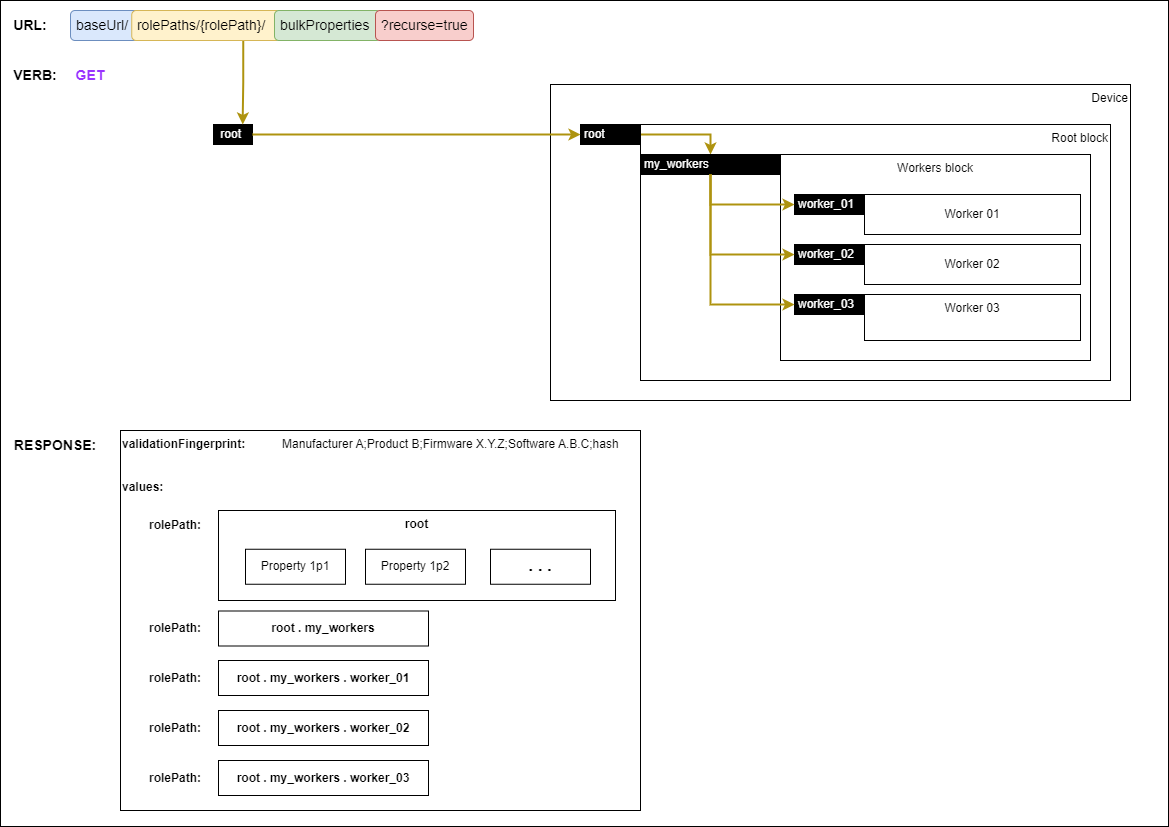
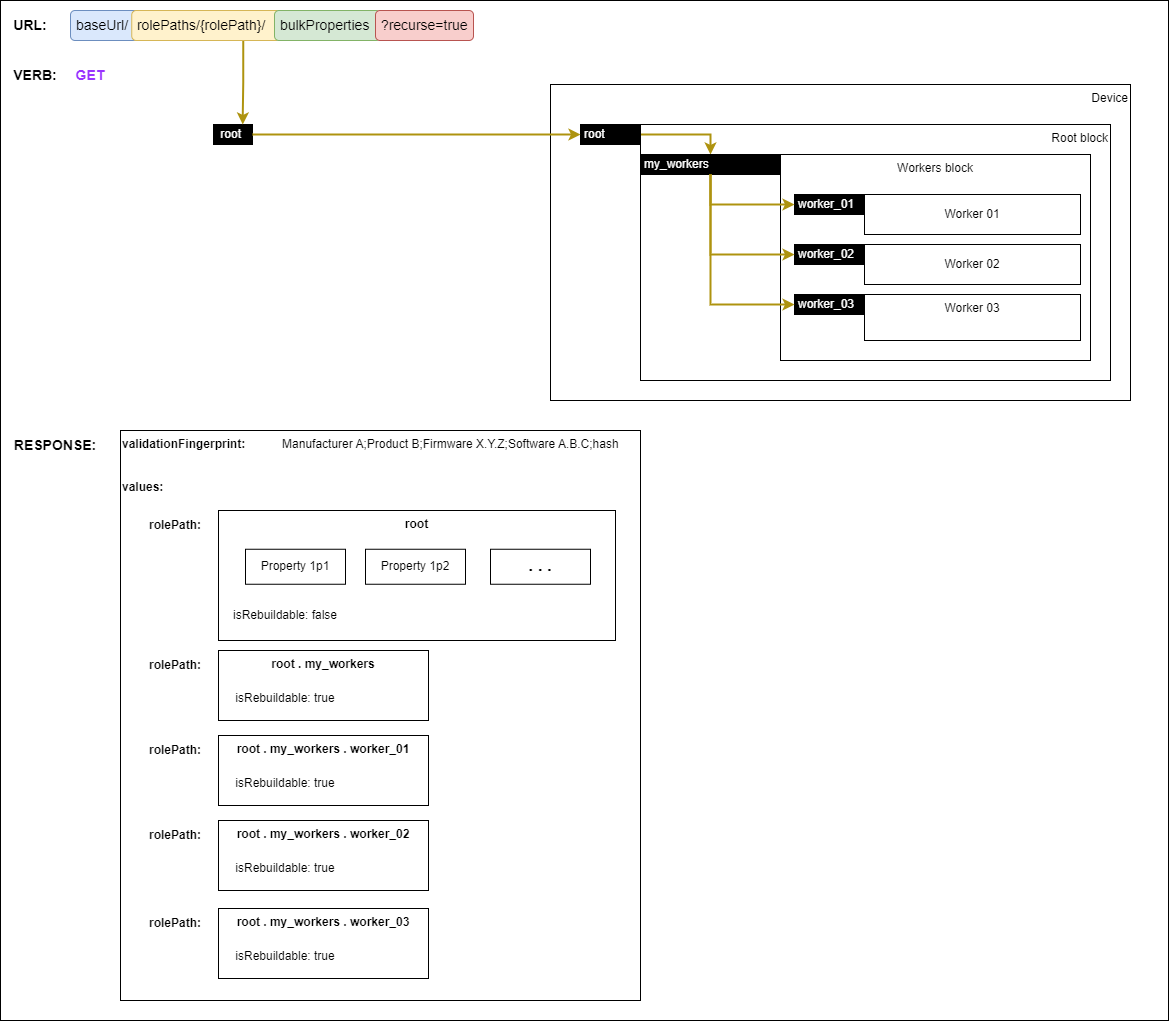
Changes as highlighted during meeting on 2024/10/15
- removal of propertyTraits
- introduction of restoreMode
- document two restore scenarios for fixed/dynamic devices
- update relevant diagrams

diff --git a/docs/Backup & restore.md b/docs/Backup & restore.md
@@ -10,8 +10,9 @@ The [Configuration API](https://specs.amwa.tv/is-14/branches/v1.0-dev/APIs/Confi
 
 These mechanisms are used for enabling backup and restore functionality and this section of the specification aims to cover the expectations, behaviour and requirements for the following scenarios:
 
-- [Performing a backup](#1-performing-a-backup)
-- Restoring a full backup data set to a device which is a [spare device replacing a faulty unit](#2-restoring-a-full-backup-data-set-to-a-device-which-is-a-spare-device-replacing-a-faulty-unit)
+- [Performing a backup](#performing-a-backup)
+- Restoring a full backup data set to a [fixed device after a faulty unit is replaced with an identical spare](#restoring-a-full-backup-data-set-to-a-fixed-device-after-a-faulty-unit-is-replaced-with-an-identical-spare)
+- Restoring a full backup data set to a [dynamic device after a faulty unit is replaced with an identical spare](#restoring-a-full-backup-data-set-to-a-dynamic-device-after-a-faulty-unit-is-replaced-with-an-identical-spare)
 
 `Note`: This does not mean that the backup & restore functionality can only be used in these scenarios.
 
@@ -41,12 +42,19 @@ A `modified backup` is a `full backup` or `partial backup` where the backup data
 
 ## General concepts
 
-The restore mechanism achieved by [Setting bulk properties for a role path](https://specs.amwa.tv/is-14/branches/v1.0-dev/docs/API_requests.html#setting-bulk-properties-for-a-role-path) affects the device model by either:
+Role path objects within a backup data set contain a boolean property called `isRebuildable`. If the object is a non-block object `isRebuildable` means the object can be reconstructed (constructing a fresh object which can accept changes even to its readonly properties). If the object is a block, `isRebuildable` depicts it can be reconstructed as mentioned in the statement before but also that its members can be added or removed. When a parent block object is not rebuildable but a member child is rebuildable the implication is that the child cannot change its role within that block when being rebuilt through a restore.
 
-- changing properties of existing objects
-- constructing new objects for blocks which require new members (structural changes)
-- deconstructing existing objects for blocks which need to have fewer members (structural changes)
-- reconstructing existing object (some devices might need to create an object again in order to apply properties which can only be changed at object construction). Reconstructed objects might have a different oid but MUST maintain their role within their parent block.
+The restore mechanism achieved by [Setting bulk properties for a role path](https://specs.amwa.tv/is-14/branches/v1.0-dev/docs/API_requests.html#setting-bulk-properties-for-a-role-path) affects the device model by either rebuilding it or modifying it.
+
+A restore mode of `Modify` MUST only be allowed to make changes to existing writeable properties of existing device model objects and cannot modify the device model in a structural way (cannot cause the addition or removal of objects from blocks).
+
+A restore mode of `Rebuild` allows the changes performed through the `Modify` mode and allows the following additional ones:
+
+- adding new members to rebuildable block objects by constructing new member objects (structural changes)
+- removing existing members from rebuildable block objects by deconstructing the member objects (structural changes)
+- reconstructing existing objects (constructing fresh objects which can accept changes even to its readonly properties)
+
+In the interest of interoperability even devices with no `rebuildable` device model objects MUST accept `Rebuild` restores but only perform the changes in scope for a `Modify` restore whilst including notices for any changes to readonly properties. Furthermore, performing a `Modify` restore MUST be possible even when the backup data set contains readonly properties since writeable properties will results in the desired changes being applied and the readonly properties will result in notices in the response returned.
 
 The general pattern for how devices interpret the restore workflow can be explained as follows:
 
@@ -55,10 +63,7 @@ The general pattern for how devices interpret the restore workflow can be explai
 - if the backup data set provided doesn't have the information required for changing/constructing/deconstructing/reconstructing a particular role path object, but the device can fill in the necessary gaps from an internal knowledge store, then they MUST report the restore status as `Ok` and include properties which have benefited from internal knowledge store data in the [notices](https://specs.amwa.tv/nmos-control-feature-sets/branches/publish-device-configuration/device-configuration/#ncpropertyrestorenotice) property as `Warning` notices.
 - if devices cannot find the required information for changing/constructing/deconstructing/reconstructing a particular role path object in either the backup data set provided or an internal knowledge store then they MUST return `Failed` as the restore status.
 
-Properties of a role path object within a backup data set will have specific traits described as [NcPropertyTrait](https://specs.amwa.tv/nmos-control-feature-sets/branches/publish-device-configuration/device-configuration/#ncpropertytrait).
-These traits are offered so that clients attempting to not restore all properties can use them to filter and only include in the restore workflow specific property traits. One example scenario is when a backup data set of a device is used to restore the state of existing device model objects but prevent any structural changes (creation or destruction of block members). To achieve this a client would exclude the `Structural` trait from the `propertyTraits` argument when [Setting bulk properties for a role path](https://specs.amwa.tv/is-14/branches/v1.0-dev/docs/API_requests.html#setting-bulk-properties-for-a-role-path).
-
-## 1. Performing a backup
+## Performing a backup
 
 Creating a backup is performed by using the `bulkProperties` endpoint of a device alongside the [Get verb](https://specs.amwa.tv/is-14/branches/v1.0-dev/docs/API_requests.html#getting-all-the-properties-of-a-role-path).
 
@@ -72,11 +77,13 @@ Partial backups can be created by choosing other role paths. The scope of backup
 
 It is RECOMMENDED to store the backup file in its entirety and not remove elements from the data set as they might contain dependencies required by some of the role paths.
 
-## 2. Restoring a full backup data set to a device which is a spare device replacing a faulty unit
+## Restoring a full backup data set to a fixed device after a faulty unit is replaced with an identical spare
 
-There is an assumption that the spare device replacing the faulty unit is the same product type from the same vendor.
+The following assumptions are made:
 
-There is also an assumption that a [full backup](#1-performing-a-backup) has been created of the faulty unit when it was healthy.
+- the spare device replacing the faulty unit is the same product type from the same vendor
+- a [full backup](#performing-a-backup) has been created of the faulty unit when it was healthy
+- the devices are fixed containing no rebuildable blocks or objects
 
 The first step is to perform a [Validation request](https://specs.amwa.tv/is-14/branches/v1.0-dev/docs/API_requests.html#validating-bulk-properties-for-a-role-path) to check if the backup data set can be successfully restored.
 
@@ -86,7 +93,7 @@ The request body MUST include:
 
 - the backup dataSet
 - a boolean `recurse` argument (set to `true` for validating the whole device model)
-- a `propertyTraits` argument (set to `null` for including all properties regardless of their traits)
+- the `restoreMode` argument (set to `Modify` in order to only allow changes to writeable properties)
 
 | ![Validating a full backup](images/validating-full-backup.png) |
 |:--:|
@@ -102,7 +109,7 @@ The request body MUST include:
 
 - the backup dataSet
 - a boolean `recurse` argument (set to `true` for validating the whole device model)
-- a `propertyTraits` argument (set to `null` for including all properties regardless of their traits)
+- the `restoreMode` argument (set to `Modify` in order to only allow changes to writeable properties)
 
 | ![Restoring a full backup](images/restoring-full-backup.png) |
 |:--:|
@@ -111,3 +118,57 @@ The request body MUST include:
 The response MUST include a collection of all target device model role paths with a validation `status` property and a `notices` array of property notices. For role paths which have a `status` which is not a 2XX value the response MUST also include a `statusMessage` with details of why the restore failed. When there are properties of role path objects which cannot be restored from the values provided in the dataset, these MUST be reported in the `notices` property as `Warning` notices.
 
 If devices require a system reboot in order to apply the restore then they MUST perform this immediately after responding to the restore request.
+
+The diagram below captures how the `Rebuild` restore uses the backup data set to transition the spare device from its out of the box device model to a state of functionality identical to the original faulty device.
+
+| ![Modify restore of spare](images/restoring_on_fixed_spare.png) |
+|:--:|
+| _**Modify restore of spare**_ |
+
+## Restoring a full backup data set to a dynamic device after a faulty unit is replaced with an identical spare
+
+The following assumptions are made:
+
+- the spare device replacing the faulty unit is the same product type from the same vendor
+- a [full backup](#performing-a-backup) has been created of the faulty unit when it was healthy
+- the devices are dynamic containing rebuildable blocks and objects
+
+The first step is to perform a [Validation request](https://specs.amwa.tv/is-14/branches/v1.0-dev/docs/API_requests.html#validating-bulk-properties-for-a-role-path) to check if the backup data set can be successfully restored.
+
+In order to validate applying the whole backup data set against the device model, requests MUST use `root` as the `rolePath`.
+
+The request body MUST include:
+
+- the backup dataSet
+- a boolean `recurse` argument (set to `true` for validating the whole device model)
+- the `restoreMode` argument (set to `Rebuild` in order to allow blocks to be repopulated with the same members as per the original device)
+
+| ![Validating a full backup](images/validating-full-backup.png) |
+|:--:|
+| _**Validating a full backup**_ |
+
+The response MUST include a collection of all target device model role paths with a validation `status` property and a `notices` array of property notices. For role paths which have a `status` which is not a 2XX value the response MUST also include a `statusMessage` with details of why the validation failed. When there are properties of role path objects which cannot be validated from the values provided in the dataset, these MUST be reported in the `notices` property as `Warning` notices.
+
+The backup can be restored by performing a [Set request](https://specs.amwa.tv/is-14/branches/v1.0-dev/docs/API_requests.html#setting-bulk-properties-for-a-role-path) to restore the backup.
+
+In order to use the whole backup data set to restore against the device model, requests MUST use `root` as the `rolePath`.
+
+The request body MUST include:
+
+- the backup dataSet
+- a boolean `recurse` argument (set to `true` for validating the whole device model)
+- the `restoreMode` argument (set to `Rebuild` in order to allow blocks to be repopulated with the same members as per the original device)
+
+| ![Restoring a full backup](images/restoring-full-backup.png) |
+|:--:|
+| _**Restoring a full backup**_ |
+
+The response MUST include a collection of all target device model role paths with a validation `status` property and a `notices` array of property notices. For role paths which have a `status` which is not a 2XX value the response MUST also include a `statusMessage` with details of why the restore failed. When there are properties of role path objects which cannot be restored from the values provided in the dataset, these MUST be reported in the `notices` property as `Warning` notices.
+
+If devices require a system reboot in order to apply the restore then they MUST perform this immediately after responding to the restore request.
+
+The diagram below captures how the `Rebuild` restore uses the backup data set to transition the spare device from its out of the box device model to a state of functionality identical to the original faulty device.
+
+| ![Rebuild restore of spare](images/restoring_on_dynamic_spare.png) |
+|:--:|
+| _**Rebuild restore of spare**_ |

diff --git a/docs/API requests.md b/docs/API requests.md
@@ -105,8 +105,6 @@ The body of the request MUST include an object which includes the new value of t
 
 This is equivalent to invoking the generic [Set method](https://specs.amwa.tv/ms-05-02/latest/docs/NcObject.html#generic-getter-and-setter) on the specific object for the required property.
 
-`TBD`: Figure out how we map deprecation statuses for properties and methods.
-
 ### Setting bulk properties for a role path
 
 | ![Setting bulk properties](images/set-bulk-properties.png) |
@@ -116,7 +114,7 @@ This is equivalent to invoking the generic [Set method](https://specs.amwa.tv/ms
 The PUT verb MUST be used for setting a bulk properties data set.
 
 The URL MUST target a specific role path.
-The body of the request MUST include an object which includes an `arguments` object with `dataSet`, `recurse` and `propertyTraits` sub elements.
+The body of the request MUST include an object which includes an `arguments` object with `dataSet`, `recurse` and `restoreMode` sub elements.
 
 ```json
 {
@@ -125,7 +123,7 @@ The body of the request MUST include an object which includes an `arguments` obj
             ...
         },
         "recurse": true,
-        "propertyTraits": null
+        "restoreMode": 1
     }
 }
 ```
@@ -167,8 +165,6 @@ The response MUST be of type [NcMethodResult](https://specs.amwa.tv/ms-05-02/lat
 
 This is equivalent to invoking the specified method.
 
-`TODO`: Figure out how we map deprecation statuses for properties and methods.
-
 ### Validating bulk properties for a role path
 
 | ![Validating bulk properties](images/validate-bulk-properties.png) |
@@ -178,7 +174,7 @@ This is equivalent to invoking the specified method.
 The PATCH verb MUST be used for validating a bulk properties data set.
 
 The URL MUST target a specific role path.
-The body of the request MUST include an object which includes an `arguments` object with `dataSet` and `recurse` sub elements.
+The body of the request MUST include an object which includes an `arguments` object with `dataSet`, `recurse` and `restoreMode` sub elements.
 
 ```json
 {
@@ -187,7 +183,7 @@ The body of the request MUST include an object which includes an `arguments` obj
             ...
         },
         "recurse": true,
-        "propertyTraits": null
+        "restoreMode": 1
     }
 }
 ```
